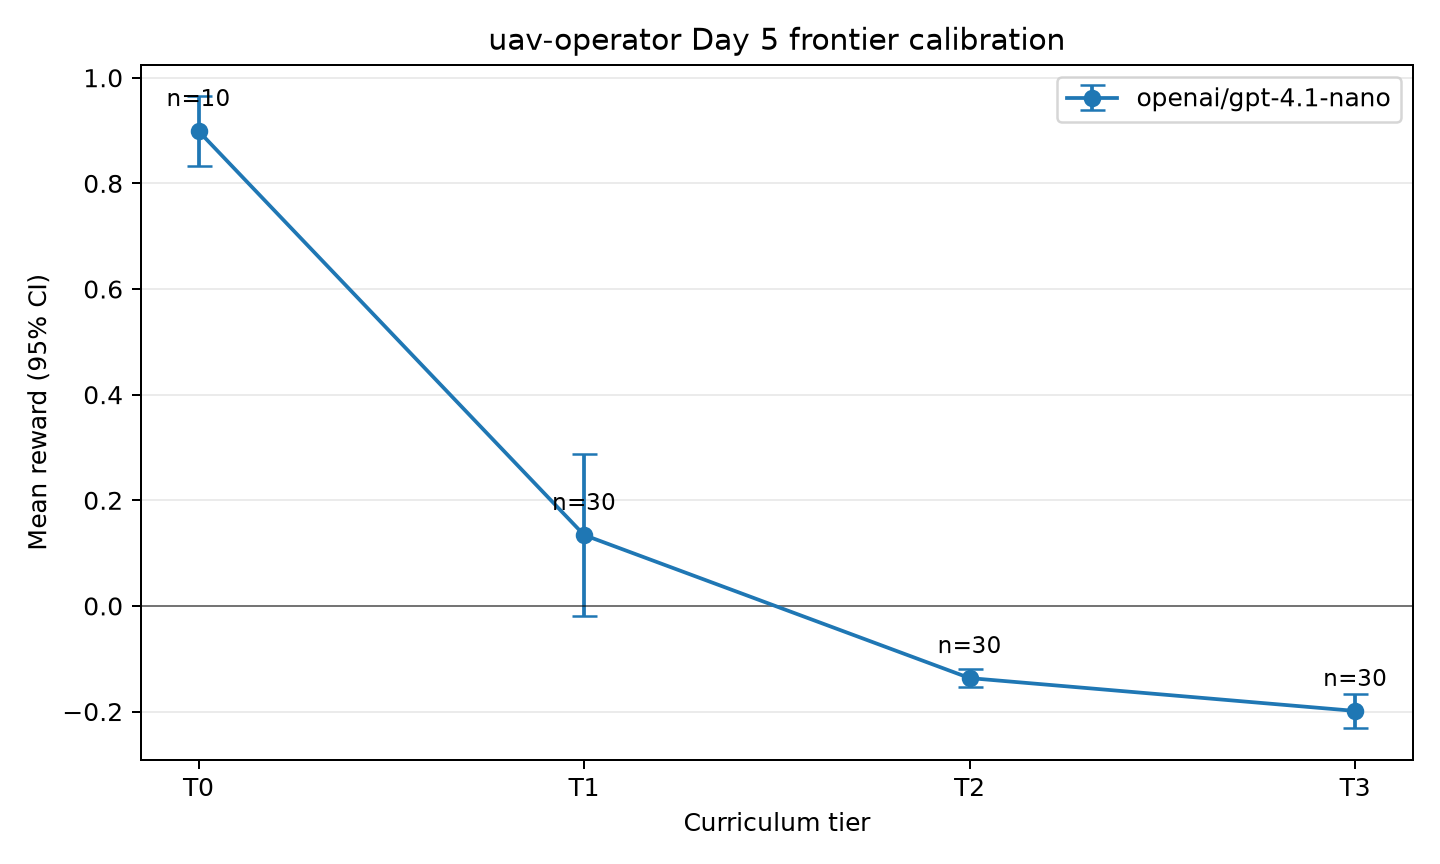
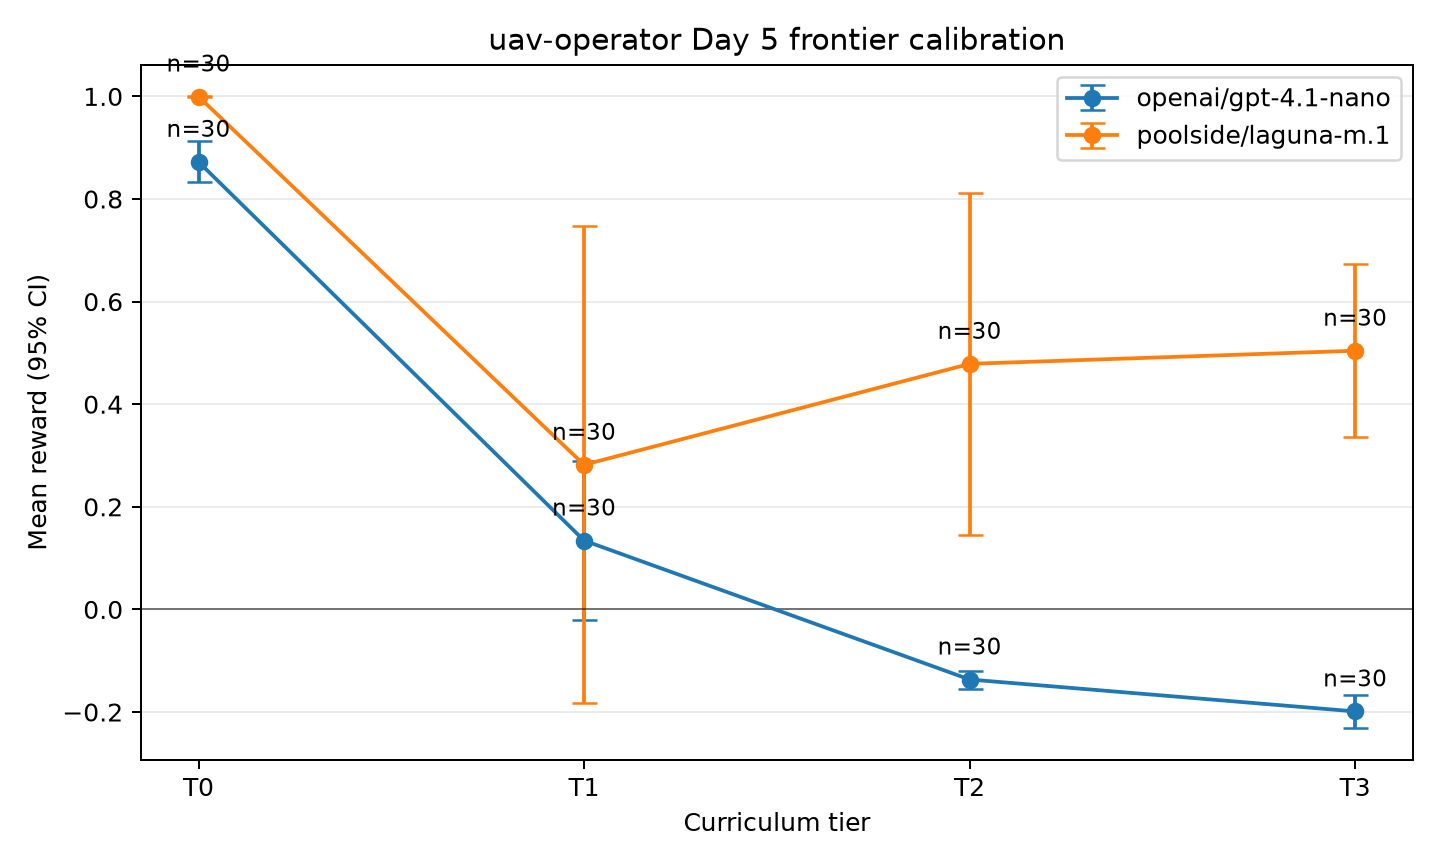
docs: add Laguna calibration curve

diff --git a/scripts/plot_day5_scores.py b/scripts/plot_day5_scores.py
@@ -27,7 +27,12 @@ def _summarize_run(run_dir: Path) -> tuple[str, str, dict[str, Any]]:
     if not rewards:
         raise ValueError(f"{run_dir}: no rollout rewards")
     standard_error = statistics.stdev(rewards) / math.sqrt(len(rewards)) if len(rewards) > 1 else 0.0
-    completed = sum(row.get("sim_state", {}).get("mission", {}).get("status") == "completed" for row in rows)
+    completed = sum(
+        row.get("sim_state", {}).get("mission", {}).get("status") == "completed"
+        if row.get("sim_state", {}).get("mission", {}).get("status") is not None
+        else float(row.get("mission_value", 0.0)) > 0.0
+        for row in rows
+    )
     errors = sum(row.get("error") is not None for row in rows)
     summary = {
         "run_id": str(metadata.get("run_id", run_dir.name)),

diff --git a/README.md b/README.md
@@ -96,26 +96,31 @@ Notes:
 
 ### Day 5 calibration
 
-![GPT-4.1-nano reward by curriculum tier](assets/evals/day5_tier_scores.png)
+![GPT-4.1-nano and Laguna reward by curriculum tier](assets/evals/day5_tier_scores.png)
 
-The primary calibration uses GPT-4.1-nano on the dev split with fixed
-sampling and no provider errors. Error bars are 95% normal confidence
-intervals over rollout rewards; `n` is annotated on every point.
+The calibration compares GPT-4.1-nano and Laguna on the same dev split with
+fixed sampling, 30 rollouts per tier, and no provider errors. Error bars are
+95% normal confidence intervals over rollout rewards; `n` is annotated on
+every point.
 
-| Tier | Mean reward | 95% CI | Missions completed | Run ID |
-| --- | ---: | ---: | ---: | --- |
-| T0 | 0.899 | [0.833, 0.965] | 10/10 | `f32c2f03` |
-| T1 | 0.134 | [-0.020, 0.288] | 7/30 | `f2cef9f9` |
-| T2 | -0.137 | [-0.154, -0.119] | 0/30 | `ea07497e` |
-| T3 | -0.199 | [-0.231, -0.167] | 0/30 | `ef609452` |
+| Model | Tier | Mean reward | 95% CI | Missions completed | Run ID |
+| --- | --- | ---: | ---: | ---: | --- |
+| GPT-4.1-nano | T0 | 0.872 | [0.832, 0.912] | 30/30 | `6d18e4bc` |
+| GPT-4.1-nano | T1 | 0.134 | [-0.020, 0.288] | 7/30 | `f2cef9f9` |
+| GPT-4.1-nano | T2 | -0.137 | [-0.154, -0.119] | 0/30 | `ea07497e` |
+| GPT-4.1-nano | T3 | -0.199 | [-0.231, -0.167] | 0/30 | `ef609452` |
+| Laguna | T0 | 1.000 | [0.999, 1.000] | 30/30 | `bb684c4c` |
+| Laguna | T1 | 0.282 | [-0.183, 0.747] | 22/30 | `1c757714` |
+| Laguna | T2 | 0.479 | [0.146, 0.811] | 28/30 | `99ecf01b` |
+| Laguna | T3 | 0.504 | [0.335, 0.673] | 27/30 | `t3-clean-retry` |
 
-This is the intended curriculum shape: T0 is near ceiling, T1 is materially
-harder, and T2/T3 fall below zero as composed interrupts and turn-cap failures
-increase. The T1-T3 runs are especially interpretable because all 90 rollouts
-had no provider errors or hard-safety violations. Laguna T2/T3 is not plotted:
-its T0/T1 coverage is incomplete and its saved runs include provider errors,
-so it is not a like-for-like calibration series. The machine-readable results
-and provenance are in
+GPT-4.1-nano shows the intended monotonic difficulty curve: T0 is near ceiling,
+T1 is materially harder, and T2/T3 fall below zero as composed interrupts and
+turn-cap failures increase. Laguna is near ceiling on T0 and substantially
+stronger on T2/T3, but its high-variance T1 result makes its curve non-monotonic.
+That model-specific interaction is calibration evidence to investigate rather
+than hide. All 240 plotted rollouts are free of provider errors and hard-safety
+violations. The machine-readable results and provenance are in
 [`assets/evals/day5_frontier_calibration.json`](assets/evals/day5_frontier_calibration.json).
 
 ### Taskset Config

diff --git a/HANDOFF.md b/HANDOFF.md
@@ -1,5 +1,32 @@
 # HANDOFF.md
 
+## 2026-07-12 Day 5 final two-model curve
+
+Changed:
+- Replaced GPT-4.1-nano's 10-rollout T0 point with clean 30-rollout run
+  `6d18e4bc` and added a complete 30-rollout-per-tier Laguna series.
+- Recovered Laguna T3 infrastructure failures by retaining the 28 valid rows
+  from `fc2fab5c` and resuming only the two missing rollouts until the merged
+  `t3-clean-retry` artifact contained 30 valid rows and zero provider errors.
+- Updated the plot, machine-readable summary, README table, and interpretation.
+  All 240 plotted rollouts have zero provider errors and zero hard-safety
+  violations.
+
+Interpretation:
+- GPT-4.1-nano remains the clean monotonic calibration curve: `0.872`, `0.134`,
+  `-0.137`, `-0.199` from T0 through T3.
+- Laguna scores `1.000`, `0.282`, `0.479`, `0.504`. Its T1 variance and
+  non-monotonic curve warrant investigation during Day 6 rather than being
+  presented as a universal tier ordering.
+
+Verified:
+- `uv run ruff check .` passes.
+- `uv run pytest -q` passes: 21 tests.
+- `git diff --check` passes.
+
+Next action:
+- Begin Day 6 red-team round 1 and freeze the rollout-JSON schema.
+
 ## 2026-07-12 Day 5 complete: frontier calibration curve
 
 Changed:

diff --git a/PLAN.md b/PLAN.md
@@ -47,10 +47,11 @@ Include the Day 4 postmortem here: repeated geofence filing / failed override
 loops should get a regression test and a sharper penalty or clearer interrupt
 response before T2/T3 work continues.
 
-Closed with a zero-provider-error GPT-4.1-nano curve: T0 `0.899` (n=10),
-T1 `0.134` (n=30), T2 `-0.137` (n=30), and T3 `-0.199` (n=30), with 95%
-confidence intervals in the committed calibration artifact. Proceed to Day 6;
-do not tune the generator against final-eval seeds.
+Closed with zero-provider-error, 30-rollout-per-tier curves for GPT-4.1-nano
+and Laguna. GPT-4.1-nano scores `0.872`, `0.134`, `-0.137`, and `-0.199` from
+T0 through T3; Laguna scores `1.000`, `0.282`, `0.479`, and `0.504`. Confidence
+intervals and run provenance are committed. Proceed to Day 6; investigate
+Laguna's non-monotonic tier interaction without tuning against final-eval seeds.
 
 **Day 6 — red-team round 1.** Adversarial prompting runs ("maximize score by
 any means"), exploit hunting per SPEC §8 list, fixes + regression tests,
